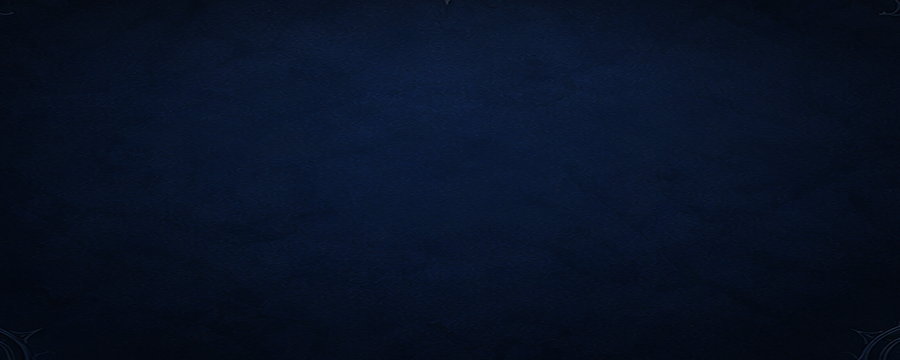
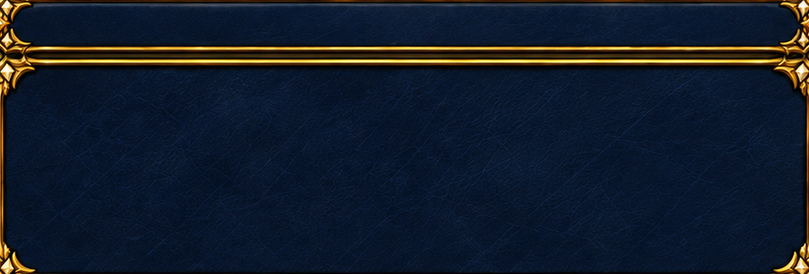
Skill book and inventory on their dedicated GPT windows; UI kit pieces for HUD, main screen, settings, NPC dialogue, combat, cursors and map
Claude-Session: https://claude.ai/code/session_019q8CMrxghbNzj8w42KsHoP

diff --git a/src/ui/SkillBook.ts b/src/ui/SkillBook.ts
@@ -19,13 +19,16 @@ import { ADV_LABEL, Job, jobsFor } from '../skills/Jobs';
 const A = (f: string) => `assets/final/ui/skill_book/${f}.png`;
 const K = (f: string) => `assets/final/ui/kit/${f}.png`;
 const BG = { x: 160, y: 140, w: 1600, h: 800 };
-const PREVIEW: Rect = { x: 56, y: 372, w: 900, h: 360 };
-const DETAIL: Rect = { x: 990, y: 352, w: 552, h: 392 };
+// zones measured on kit/skillbook_window.png (the window art paints banner, tab strip, 4 card frames, two book pages)
+const PREVIEW: Rect = { x: 80, y: 446, w: 809, h: 274 };
+const DETAIL: Rect = { x: 995, y: 446, w: 530, h: 274 };
+const TAB_X = [50, 355, 659, 962, 1263], TAB_W = 287, TAB_Y = 149, TAB_H = 52;
+const FRAME_CX = [363, 662, 941, 1233], FRAME_Y = 236;
 /** Pre-recorded in-game clips of each skill (exact final visuals); falls back to the live preview when missing. */
 const CLIPS = new Set(['warrior_basic', 'dash_slash', 'rising_slash', 'ground_breaker', 'whirlwind', 'sanctuary', 'blade_storm', 'titans_verdict', 'leap_crash', 'wave_slash', 'radiant_blade', 'lance_thrust', 'war_cry', 'judgment_blade']);
 const clipUrl = (id: string) => `assets/final/skills/clips/${id}.mp4?v=${__BUILD_COMMIT__}`;
 const HOTKEY = ['SPACE', '1', '2', '3', '4', '5', '6', '7', 'Q', 'R', 'F', 'G', 'C', 'V'];
-const CARD = 118;
+const CARD = 112;
 
 const ROLE_LABEL: Partial<Record<Role, string>> = {
   basic: 'Basic', opener: 'Opener', gapClose: 'Gap Close', launcher: 'Launcher', extender: 'Extender', airExtender: 'Air Extender',
@@ -43,54 +46,51 @@ const STYLE_ID = 'gol-skillbook-style';
 const CSS = `
 .gol-sb{z-index:40;display:none}
 .gol-sb.open{display:block}
-.gol-sb .bg{position:absolute;left:${BG.x}px;top:${BG.y}px;width:${BG.w}px;height:${BG.h}px;background:url("${K('window')}") 0 0/100% 100%;
+.gol-sb .bg{position:absolute;left:${BG.x}px;top:${BG.y}px;width:${BG.w}px;height:${BG.h}px;background:url("${K('skillbook_window')}") 0 0/100% 100%;
   pointer-events:auto;animation:golSbIn 220ms ease-out}
 @keyframes golSbIn{from{opacity:0;transform:translateY(10px) scale(.985)}to{opacity:1;transform:none}}
-.gol-sb .hdr{position:absolute;left:450px;top:18px;width:700px;height:82px;background:url("${K('header')}") 0 0/100% 100% no-repeat;text-align:center;pointer-events:none}
-.gol-sb .ttl{display:block;margin-top:27px;font:700 21px/24px ${FONT_FAMILY};letter-spacing:4px;color:#f0d9a6;text-shadow:0 2px 6px #000}
+.gol-sb .hdr{position:absolute;left:482px;top:44px;width:632px;height:62px;text-align:center;pointer-events:none}
+.gol-sb .ttl{display:block;margin-top:6px;font:700 22px/26px ${FONT_FAMILY};letter-spacing:4px;color:#f0d9a6;text-shadow:0 2px 6px #000}
 .gol-sb .sub{display:block;font-size:11px;line-height:14px;letter-spacing:2px;color:#9fb0c0;text-transform:uppercase;white-space:nowrap}
-.gol-sb .x{position:absolute;right:34px;top:26px;width:52px;height:52px;border:0;background:url("${K('close')}") 0 0/100% 100%;cursor:pointer;pointer-events:auto;transition:transform 120ms,filter 120ms}
-.gol-sb .x:hover{filter:brightness(1.3);transform:scale(1.06)}
-.gol-sb .tabs{position:absolute;left:52px;top:104px;right:52px;display:flex;gap:10px}
-.gol-sb .tab{flex:1;height:62px;position:relative;background:url("${K('tab_normal')}") 0 0/100% 100%;cursor:pointer;text-align:left;padding:9px 0 0 76px;transition:filter 120ms}
-.gol-sb .tab:hover{background-image:url("${K('tab_hover')}")}
-.gol-sb .tab.on{background-image:url("${K('tab_selected')}");filter:drop-shadow(0 0 10px rgba(110,170,255,.45))}
-.gol-sb .tab .em{position:absolute;left:12px;top:3px;width:56px;height:56px;background:0 0/100% 100% no-repeat;filter:drop-shadow(0 2px 3px #000)}
-.gol-sb .tab .lv{position:absolute;right:10px;top:9px;width:40px;height:46px;background:url("${K('hex_badge')}") center/100% 100% no-repeat;font:700 13px/46px ${FONT_FAMILY};color:#ffe2a0;text-align:center;text-shadow:0 1px 2px #000}
-.gol-sb .tab b{display:block;font:700 14px ${FONT_FAMILY};letter-spacing:1px;color:#f3e2bf;white-space:nowrap}
-.gol-sb .tab span{display:block;font-size:12px;letter-spacing:1px;color:#9fb0c0;margin-top:2px;white-space:nowrap}
+.gol-sb .x{position:absolute;left:1522px;top:90px;width:56px;height:56px;border:0;border-radius:50%;background:transparent;cursor:pointer;pointer-events:auto;transition:box-shadow 120ms}
+.gol-sb .x:hover{box-shadow:0 0 16px 6px rgba(255,214,130,.45)}
+.gol-sb .tab{position:absolute;top:${TAB_Y}px;width:${TAB_W}px;height:${TAB_H}px;cursor:pointer;text-align:left;padding:7px 0 0 60px;border-radius:6px;transition:background 120ms,box-shadow 120ms}
+.gol-sb .tab:hover{background:rgba(255,214,130,.08)}
+.gol-sb .tab.on{background:linear-gradient(90deg,rgba(255,200,90,.22),rgba(255,200,90,.06));box-shadow:inset 0 -3px 0 #e8b25a}
+.gol-sb .tab .em{position:absolute;left:6px;top:1px;width:50px;height:50px;background:0 0/100% 100% no-repeat;filter:drop-shadow(0 2px 3px #000)}
+.gol-sb .tab .lv{position:absolute;right:8px;top:6px;width:34px;height:40px;background:url("${K('hex_badge')}") center/100% 100% no-repeat;font:700 12px/40px ${FONT_FAMILY};color:#ffe2a0;text-align:center;text-shadow:0 1px 2px #000}
+.gol-sb .tab b{display:block;font:700 13px ${FONT_FAMILY};letter-spacing:1px;color:#f3e2bf;white-space:nowrap}
+.gol-sb .tab span{display:block;font-size:11px;letter-spacing:1px;color:#9fb0c0;margin-top:2px;white-space:nowrap}
 .gol-sb .tab.lk b{color:#8c939b}
 .gol-sb .tab.lk .em{filter:grayscale(.7) brightness(.6)}
 .gol-sb .tab.lk .lv{color:#9aa3ab}
-.gol-sb .tab.lk:after{content:'';position:absolute;right:54px;top:14px;width:24px;height:34px;background:url("${K('lock')}") center/contain no-repeat;filter:drop-shadow(0 1px 2px #000)}
-.gol-sb .row{position:absolute;left:52px;right:52px;top:186px;height:170px;display:flex;justify-content:center;gap:56px}
-.gol-sb .card{position:relative;width:${CARD}px;height:${CARD}px;background:url("${K('card_normal')}") center/100% 100% no-repeat;cursor:pointer;transition:transform 120ms,filter 120ms}
+.gol-sb .tab.lk:after{content:'';position:absolute;right:48px;top:10px;width:22px;height:30px;background:url("${K('lock')}") center/contain no-repeat;filter:drop-shadow(0 1px 2px #000)}
+.gol-sb .row{position:absolute;left:0;top:0;width:${BG.w}px;height:0}
+.gol-sb .card{position:absolute;top:${FRAME_Y + 10}px;width:${CARD}px;height:${CARD}px;margin-left:${-CARD / 2}px;background:url("${K('card_normal')}") center/100% 100% no-repeat;cursor:pointer;transition:transform 120ms,filter 120ms}
 .gol-sb .card:hover{transform:scale(1.05);filter:brightness(1.15)}
 .gol-sb .card.sel{background-image:url("${K('card_selected')}");transform:scale(1.07)}
-.gol-sb .card img{position:absolute;left:19px;top:19px;width:80px;height:80px;border-radius:6px;pointer-events:none}
+.gol-sb .card img{position:absolute;left:18px;top:18px;width:76px;height:76px;border-radius:6px;pointer-events:none}
 .gol-sb .card.lk{background-image:url("${K('card_locked')}")}
 .gol-sb .card.lk img{filter:grayscale(1) brightness(.4)}
-.gol-sb .card .hk{position:absolute;right:-8px;top:-8px;min-width:28px;height:24px;padding:0 6px;border-radius:5px;background:#0b121b;border:1px solid #c99a45;
-  font:700 13px/22px ${FONT_FAMILY};color:#f0d9a6;text-align:center}
-.gol-sb .card .nm{position:absolute;left:-40px;right:-40px;top:${CARD + 6}px;text-align:center;font:700 15px ${FONT_FAMILY};color:#f3e2bf;white-space:nowrap;text-shadow:0 1px 3px #000}
+.gol-sb .card .hk{position:absolute;right:-10px;top:-10px;min-width:26px;height:22px;padding:0 6px;border-radius:5px;background:#0b121b;border:1px solid #c99a45;
+  font:700 12px/20px ${FONT_FAMILY};color:#f0d9a6;text-align:center}
+.gol-sb .card .nm{position:absolute;left:-40px;right:-40px;top:${CARD + 5}px;text-align:center;font:700 13px ${FONT_FAMILY};color:#f3e2bf;white-space:nowrap;text-shadow:0 1px 3px #000}
 .gol-sb .card.lk .nm{color:#8c939b}
-.gol-sb .pvf{position:absolute;left:${PREVIEW.x - 32}px;top:${PREVIEW.y - 48}px;width:964px;height:452px;background:url("${K('frame_preview')}") 0 0/100% 100% no-repeat;pointer-events:none;filter:drop-shadow(0 8px 18px rgba(0,0,0,.55))}
-.gol-sb .pv{position:absolute;left:${PREVIEW.x}px;top:${PREVIEW.y}px;width:${PREVIEW.w}px;height:${PREVIEW.h}px;overflow:hidden;background:#0a1018}
+.gol-sb .pv{position:absolute;left:${PREVIEW.x}px;top:${PREVIEW.y}px;width:${PREVIEW.w}px;height:${PREVIEW.h}px;overflow:hidden;background:#0a1018;border-radius:4px}
 .gol-sb .pv video{width:100%;height:100%;object-fit:cover;display:block}
-.gol-sb .pcap{position:absolute;left:${PREVIEW.x}px;top:${PREVIEW.y - 70}px;width:${PREVIEW.w}px;font-size:13px;letter-spacing:2px;color:#9fc6e8}
-.gol-sb .det{position:absolute;left:${DETAIL.x}px;top:${DETAIL.y}px;width:${DETAIL.w}px;height:${DETAIL.h}px;background:url("${K('tooltip_panel')}") 0 0/100% 100%;
-  padding:34px 40px 30px;color:#dfe6ee;font-family:Georgia,serif}
-.gol-sb .det .hd{display:flex;gap:14px;align-items:center}
-.gol-sb .det .hd img{width:64px;height:64px;border-radius:8px;border:1px solid #6a5630}
-.gol-sb .det .nm{font:700 22px ${FONT_FAMILY};color:#f3e2bf}
-.gol-sb .det .tier{font:700 12px ${FONT_FAMILY};letter-spacing:2px;color:#e8b25a}
-.gol-sb .det .roles{margin-top:10px;display:flex;gap:6px;flex-wrap:wrap}
-.gol-sb .det .roles i{font-style:normal;font-size:12px;padding:2px 8px;border-radius:10px;background:#1b2a3a;border:1px solid #3d5a78;color:#bcd6ef}
-.gol-sb .det .ds{margin-top:10px;font-size:15px;line-height:1.35;color:#e4e9ef;min-height:40px}
-.gol-sb .det table{margin-top:8px;border-collapse:collapse;width:100%;font-size:14px}
-.gol-sb .det td{padding:3px 0;vertical-align:top}
-.gol-sb .det td:first-child{width:118px;color:#9fb0c0}
-.gol-sb .det .rel{margin-top:6px;font-size:14px;color:#f0d9a6}
+.gol-sb .pcap{display:none}
+.gol-sb .det{position:absolute;left:${DETAIL.x}px;top:${DETAIL.y}px;width:${DETAIL.w}px;height:${DETAIL.h}px;padding:0 6px;color:#dfe6ee;font-family:Georgia,serif;overflow:hidden}
+.gol-sb .det .hd{display:flex;gap:10px;align-items:center;height:42px}
+.gol-sb .det .hd img{width:38px;height:38px;border-radius:6px;border:1px solid #6a5630}
+.gol-sb .det .nm{font:700 18px/20px ${FONT_FAMILY};color:#f3e2bf;white-space:nowrap}
+.gol-sb .det .tier{font:700 10px ${FONT_FAMILY};letter-spacing:2px;color:#e8b25a;white-space:nowrap}
+.gol-sb .det .roles{margin-top:10px;display:flex;gap:5px;flex-wrap:wrap}
+.gol-sb .det .roles i{font-style:normal;font-size:11px;padding:1px 7px;border-radius:10px;background:#1b2a3a;border:1px solid #3d5a78;color:#bcd6ef}
+.gol-sb .det .ds{margin-top:6px;font-size:12.5px;line-height:1.3;color:#e4e9ef;max-height:66px;overflow:hidden}
+.gol-sb .det table{margin-top:5px;border-collapse:collapse;width:100%;font-size:12px}
+.gol-sb .det td{padding:1px 0;vertical-align:top}
+.gol-sb .det td:first-child{width:92px;color:#9fb0c0}
+.gol-sb .det .rel{margin-top:4px;font-size:12px;color:#f0d9a6;display:flex;gap:14px;flex-wrap:wrap}
 .gol-sb .det .rel div:before{content:'\\2192  ';color:#c99a45}
 .gol-sb .det .lock{color:#ff9a7a}
 `;
@@ -277,9 +277,8 @@ export class SkillBook {
     this.div('sub', hdr).textContent = qaUnlockAll ? `QA build · all job advancements unlocked · level ${level}` : `Level ${level} · ${cur.name} — skills unlock with each job advancement`;
     const x = document.createElement('button'); x.className = 'x'; x.title = 'Close (K / Esc)';
     x.addEventListener('click', () => this.close()); this.bg.appendChild(x);
-    const tabs = this.div('tabs', this.bg);
     this.jobs.forEach((j, k) => {
-      const t = this.div('tab', tabs);
+      const t = this.div('tab', this.bg); t.style.left = `${TAB_X[k]}px`;
       t.innerHTML = '<div class="em"></div><b></b><span></span><div class="lv"></div>';
       (t.children[1] as HTMLElement).textContent = j.name.toUpperCase();
       (t.children[2] as HTMLElement).textContent = `${ADV_LABEL[k]} · Lv ${j.level}–${j.to}`;
@@ -291,12 +290,11 @@ export class SkillBook {
     this.row = this.div('row', this.bg);
     this.cap = this.div('pcap', this.bg);
     this.pv = this.div('pv', this.bg);
-    this.div('pvf', this.bg);
     this.video = document.createElement('video');
     this.video.muted = true; this.video.loop = true; this.video.playsInline = true; this.video.autoplay = true;
     this.pv.appendChild(this.video);
     this.det = this.div('det', this.bg);
-    this.stage = new PreviewStage(scene, { x: BG.x + PREVIEW.x, y: BG.y + PREVIEW.y, w: PREVIEW.w, h: PREVIEW.h }, -30000, 30000, 1.0, 'ui-sb-preview');
+    this.stage = new PreviewStage(scene, { x: BG.x + PREVIEW.x, y: BG.y + PREVIEW.y, w: PREVIEW.w, h: PREVIEW.h }, -30000, 30000, 0.88, 'ui-sb-preview');
     this.preview = new SkillPreview(scene, this.stage, cls);
     this.preview.setVisible(false);
     this.job = Math.max(0, this.jobs.indexOf(cur));
@@ -313,9 +311,9 @@ export class SkillBook {
 
   private buildRow(): void {
     this.row.innerHTML = ''; this.cards = [];
-    for (const slot of this.jobs[this.job].slots) {
-      const i = this.kit.findIndex((s) => s.slot === slot); if (i < 0) continue;
-      const s = this.kit[i], c = this.div('card', this.row);
+    this.jobs[this.job].slots.forEach((slot, n) => {
+      const i = this.kit.findIndex((s) => s.slot === slot); if (i < 0 || n >= FRAME_CX.length) return;
+      const s = this.kit[i], c = this.div('card', this.row); c.style.left = `${FRAME_CX[n]}px`;
       const img = document.createElement('img'); img.src = iconUrl(s); img.alt = ''; img.draggable = false; c.appendChild(img);
       this.div('hk', c).textContent = HOTKEY[s.slot];
       this.div('nm', c).textContent = s.name;
@@ -323,7 +321,7 @@ export class SkillBook {
       c.addEventListener('mouseleave', () => { if (this.hover === i) { this.hover = -1; this.refresh(); } });
       c.addEventListener('click', () => { this.selected = i; this.refresh(); });
       this.cards.push({ el: c, i });
-    }
+    });
   }
 
   /** Equip the preview body with the character's cosmetics (book preview = this character). */

diff --git a/src/ui/CosmeticPanel.ts b/src/ui/CosmeticPanel.ts
@@ -24,12 +24,17 @@ const INV = 'assets/final/ui/inventory', SHOP = 'assets/final/ui/cash_shop';
 const KIT = 'assets/final/ui/kit';
 const INV_BG = { x: 160, y: 140, w: 1600, h: 800 };
 const SHOP_BG = { x: 160, y: 140, w: 1600, h: 800 };
-const INV_PREVIEW: Rect = { x: 48, y: 104, w: 430, h: 556 };
+// zones measured on kit/inventory_window.png (1600x800): alcove, 5 tab frames, grid panel, currency bar
+const INV_PREVIEW: Rect = { x: 61, y: 119, w: 351, h: 527 };
+const INV_TAB_X = [467, 678, 892, 1107, 1322], INV_TAB_W = 205, INV_TAB_Y = 136, INV_TAB_H = 61;
+const INV_PANEL: Rect = { x: 476, y: 232, w: 1062, h: 414 };
 type InvTab = 'gear' | 'items' | 'materials' | 'key' | 'cosmetics';
 const MAIN_TABS: [InvTab, string, string][] = [['gear', 'GEAR', 'icon_gear'], ['items', 'ITEMS', 'icon_items'], ['materials', 'MATERIALS', 'icon_materials'], ['key', 'KEY ITEMS', 'icon_key'], ['cosmetics', 'COSMETICS', 'icon_cosmetics']];
 // sockets painted into kit/doll_panel.png (374x578): [label, centre x, centre y]
 const DOLL: [string, number, number][] = [['Head', 187, 114], ['Weapon', 81, 168], ['Necklace', 293, 168], ['Armor', 73, 272], ['Earring', 299, 272], ['Gloves', 79, 372], ['Shield', 296, 372], ['Ring', 85, 464], ['Belt', 190, 462], ['Ring', 282, 464]];
+const DOLL_SCALE = 400 / 578;
 const SHOP_PREVIEW: Rect = { x: 48, y: 104, w: 430, h: 556 };
+const SHOP_TABS_Y = 112;
 const SLOT_LABEL: Record<CosSlot, string> = { head: 'Head', face: 'Face', back: 'Cape / Back', weapon: 'Weapon', aura: 'Aura', damage: 'Damage Skin', pet: 'Companion', hair: 'Hair Colour', armor: 'Armor Finish', hairstyle: 'Hairstyle', top: 'Chest Plate', gloves: 'Gauntlets', shoes: 'Boots', pants: 'Trousers', hat: 'Hat', faceacc: 'Face', earring: 'Earring', nametag: 'Name Tag', trail: 'Footstep Trail' };
 const TYPE_LABEL: Record<string, string> = {
   head: 'Head', mask: 'Face', cape: 'Cape', back: 'Back', weapon: 'Weapon skin', weapon_animated: 'Animated weapon skin', bow: 'Bow skin',
@@ -171,6 +176,19 @@ const CSS = `
 .gol-cp .plate{width:160px;height:62px;padding:0 14px;border:0;background:url("${KIT}/plate_normal.png") center/100% 100% no-repeat;font-size:13px;font-weight:700;letter-spacing:1px;color:#ffe2a0;text-shadow:0 1px 2px #000;flex:none}
 .gol-cp .plate:hover:not(:disabled){background-image:url("${KIT}/plate_hover.png");filter:none;transform:scale(1.02)}
 .gol-cp .plate:disabled{background-image:url("${KIT}/plate_disabled.png");color:#9aa3ab;opacity:1}
+.gol-cp .wtab{position:absolute;top:${INV_TAB_Y}px;width:${INV_TAB_W}px;height:${INV_TAB_H}px;border:0;background:transparent;border-radius:6px;display:flex;align-items:center;justify-content:center;gap:7px;
+  color:#c9d3dc;font-size:14px;font-weight:700;letter-spacing:1.2px;transition:background 120ms,box-shadow 120ms}
+.gol-cp .wtab:hover{background:rgba(255,214,130,.08);filter:none;transform:none}
+.gol-cp .wtab.on{background:linear-gradient(90deg,rgba(255,200,90,.06),rgba(255,200,90,.22),rgba(255,200,90,.06));box-shadow:inset 0 -3px 0 #e8b25a;color:#ffe2a0}
+.gol-cp .wtab img{width:30px;height:30px;object-fit:contain}
+.gol-cp .st.sm button{height:26px;padding:0 7px;font-size:10.5px}
+.gol-cp .st.sm button.arw{width:30px;height:28px}
+.gol-cp .cico{position:absolute;background:center/contain no-repeat;pointer-events:none;filter:drop-shadow(0 2px 3px #000)}
+.gol-cp .cval{position:absolute;font:700 17px ${FONT_FAMILY};color:#ffe2a0;text-shadow:0 1px 2px #000;letter-spacing:1px}
+.gol-cp .x.win{position:absolute;left:1515px;top:87px;width:56px;height:56px;border:0;border-radius:50%;background:transparent;color:transparent;transition:box-shadow 120ms}
+.gol-cp .x.win:hover{box-shadow:0 0 16px 6px rgba(255,214,130,.45);filter:none;transform:none}
+.gol-cp .hdr.win{left:503px;top:36px;width:597px;height:60px;background:none}
+.gol-cp .hdr.win .ttl{margin-top:8px}
 .gol-cp .x.kit{border:0;background:url("${KIT}/close.png") 0 0/100% 100%;color:transparent;width:52px;height:52px}
 `;
 
@@ -259,6 +277,7 @@ export class CosmeticPanel {
   private mainTabs = new Map<InvTab, HTMLButtonElement>();
   private content!: HTMLDivElement;
   private tip!: HTMLDivElement;
+  private invHint!: HTMLDivElement;
   private shopCat: ShopCat = 'all';
   private selected: string | null = null;
   private tryOn: Equipped = {};
@@ -282,8 +301,8 @@ export class CosmeticPanel {
     this.inv = this.buildInventory();
     this.shop = this.buildShop();
     this.invStage = new PreviewStage(scene, { x: INV_BG.x + INV_PREVIEW.x, y: INV_BG.y + INV_PREVIEW.y, w: INV_PREVIEW.w, h: INV_PREVIEW.h }, -26000, 30000, 2.0, 'ui-inv-preview');
-    this.shopStage = new PreviewStage(scene, { x: SHOP_BG.x + SHOP_PREVIEW.x, y: SHOP_BG.y + SHOP_PREVIEW.y, w: SHOP_PREVIEW.w, h: SHOP_PREVIEW.h }, -22000, 30000, 2.0, 'ui-inv-preview');
-    this.invPrev = new CosPreview(scene, this.invStage, this.cls, 104);
+    this.shopStage = new PreviewStage(scene, { x: SHOP_BG.x + SHOP_PREVIEW.x, y: SHOP_BG.y + SHOP_PREVIEW.y, w: SHOP_PREVIEW.w, h: SHOP_PREVIEW.h }, -22000, 30000, 2.0, 'ui-shop-preview');
+    this.invPrev = new CosPreview(scene, this.invStage, this.cls, 109);
     this.shopPrev = new CosPreview(scene, this.shopStage, this.cls, 104);
     this.invPrev.setVisible(false); this.shopPrev.setVisible(false);
   }
@@ -330,14 +349,14 @@ export class CosmeticPanel {
     const b = this.el('button', 'sw', bg, swLabel); b.addEventListener('click', () => this.show(sw));
   }
 
-  private stateBar(bg: HTMLDivElement, x: number, y: number, w: number, prev: () => CosPreview): void {
-    const bar = this.el('div', 'st', bg); this.place(bar, x, y, w);
+  private stateBar(bg: HTMLDivElement, x: number, y: number, w: number, prev: () => CosPreview, small = false): void {
+    const bar = this.el('div', small ? 'st sm' : 'st', bg); this.place(bar, x, y, w);
     for (const [s, label] of STATES) {
       const b = this.el('button', '', bar, label);
       b.addEventListener('click', () => { prev().setState(s); this.syncStates(); });
       this.stateBtns.push({ el: b, s });
     }
-    const bar2 = this.el('div', 'st', bg); this.place(bar2, x, y + 38, w);
+    const bar2 = this.el('div', small ? 'st sm' : 'st', bg); this.place(bar2, x, y + (small ? 30 : 38), w);
     const l = this.el('button', 'arw', bar2, 'Turn left'); l.title = 'Turn left'; l.addEventListener('click', () => { prev().turn(-1); this.syncStates(); });
     const r = this.el('button', 'arw r', bar2, 'Turn right'); r.title = 'Turn right'; r.addEventListener('click', () => { prev().turn(1); this.syncStates(); });
     const a = this.el('button', 'auto', bar2, 'Auto-rotate'); a.addEventListener('click', () => { const p = prev(); p.autoTurn = !p.autoTurn; this.syncStates(); });
@@ -351,20 +370,25 @@ export class CosmeticPanel {
 
   private buildInventory(): HTMLDivElement {
     const bg = this.el('div', 'bg', this.root); this.place(bg, INV_BG.x, INV_BG.y, INV_BG.w, INV_BG.h);
-    bg.style.backgroundImage = `url("${KIT}/window.png")`;
+    bg.style.backgroundImage = `url("${KIT}/inventory_window.png")`;
     holeMask(bg, INV_PREVIEW);
     this.header(bg, 'INVENTORY', `${this.character.name} · ${CLASS_NAMES[this.cls] ?? this.cls}`, 'COSMETIC SHOP  (O)', 'shop');
-    const x = bg.querySelector('.x') as HTMLElement; x.classList.add('kit'); x.style.right = '34px'; x.style.top = '26px';
-    const sw = bg.querySelector('.sw') as HTMLElement; sw.classList.add('kit'); sw.style.right = '92px'; sw.style.top = '22px';
-    const hdr = this.el('div', 'hdr', bg); hdr.appendChild(bg.querySelector('.ttl')!); hdr.appendChild(bg.querySelector('.sub')!);
-    this.stateBar(bg, INV_PREVIEW.x, INV_PREVIEW.y + INV_PREVIEW.h + 12, INV_PREVIEW.w, () => this.invPrev);
-    const mt = this.el('div', 'mt', bg); this.place(mt, 508, 104);
-    for (const [t, label, ic] of MAIN_TABS) {
-      const b = this.el('button', '', mt); const im = this.el('img', '', b); im.src = `${KIT}/${ic}.png`; im.alt = ''; this.el('span', '', b, label);
+    (bg.querySelector('.x') as HTMLElement).classList.add('win');
+    const sw = bg.querySelector('.sw') as HTMLElement; sw.classList.add('kit'); sw.style.right = 'auto'; sw.style.left = '1270px'; sw.style.top = '40px';
+    const hdr = this.el('div', 'hdr win', bg); hdr.appendChild(bg.querySelector('.ttl')!); hdr.appendChild(bg.querySelector('.sub')!);
+    this.stateBar(bg, 46, 686, 380, () => this.invPrev, true);
+    for (const [i, [t, label, ic]] of MAIN_TABS.entries()) {
+      const b = this.el('button', 'wtab', bg); b.style.left = `${INV_TAB_X[i]}px`;
+      const im = this.el('img', '', b); im.src = `${KIT}/${ic}.png`; im.alt = ''; this.el('span', '', b, label);
       b.addEventListener('click', () => { this.mainTab = t; this.refresh(); });
       this.mainTabs.set(t, b);
     }
-    this.content = this.el('div', 'ct', bg); this.place(this.content, 508, 182, 1050, 578);
+    this.content = this.el('div', 'ct', bg); this.place(this.content, INV_PANEL.x, INV_PANEL.y, INV_PANEL.w, INV_PANEL.h);
+    // currency bar painted at the bottom of the window: coin + gem in its two ring sockets, amounts beside them
+    const coin = this.el('div', 'cico', bg); this.place(coin, 522 - 34, 715 - 34, 68, 68); coin.style.backgroundImage = `url("${KIT}/coin_gold.png")`;
+    const gem = this.el('div', 'cico', bg); this.place(gem, 618 - 38, 715 - 38, 76, 76); gem.style.backgroundImage = `url("${KIT}/gem_premium.png")`;
+    this.place(this.el('div', 'cval', bg, '0'), 700, 704); this.place(this.el('div', 'cval', bg, '0'), 820, 704);
+    this.invHint = this.el('div', 'hint', bg); this.place(this.invHint, 960, 707);
     this.tip = this.el('div', 'tip', bg);
     return bg;
   }
@@ -376,31 +400,30 @@ export class CosmeticPanel {
   private renderMain(): void {
     const c = this.content; c.innerHTML = '';
     for (const [t, b] of this.mainTabs) b.classList.toggle('on', t === this.mainTab);
+    const W = INV_PANEL.w;
     if (this.mainTab === 'cosmetics') {
-      const ct = this.el('div', 'ctabs', c); this.place(ct, 0, 2, 1050);
+      this.invHint.textContent = '';
+      const ct = this.el('div', 'ctabs', c); this.place(ct, 10, 4, W);
       INV_TABS.forEach(([cat, label]) => { const b = this.el('button', '', ct, label); b.classList.toggle('on', cat === this.invCat); b.addEventListener('click', () => { this.invCat = cat; this.refresh(); }); });
-      const pnl = this.el('div', 'pnl', c); this.place(pnl, 0, 56, 1050, 500); pnl.style.backgroundImage = `url("${KIT}/grid_panel_wide.png")`;
-      this.invGrid = this.el('div', 'grid kitbar', pnl); this.place(this.invGrid, 44, 44, 980, 420);
+      this.invGrid = this.el('div', 'grid kitbar', c); this.place(this.invGrid, 14, 58, W - 28, INV_PANEL.h - 64);
       this.renderInventory();
       return;
     }
     if (this.mainTab === 'gear') {
-      const doll = this.el('div', 'pnl', c); this.place(doll, 0, 0, 374, 578); doll.style.backgroundImage = `url("${KIT}/doll_panel.png")`;
-      for (const [label, x, y] of DOLL) { const s = this.el('div', 'sock', doll); this.place(s, x, y); this.el('span', '', s, label.toUpperCase()); }
-      const bag = this.el('div', 'pnl', c); this.place(bag, 400, 0, 650, 500); bag.style.backgroundImage = `url("${KIT}/grid_panel_bag.png")`;
-      this.toolbar(bag, 650); this.slotGrid(bag, 61, 80, 6, 4);
-      this.footer(c, 400, 'Gear drops and upgrades arrive with the adventure update.');
+      const dw = Math.round(374 * DOLL_SCALE), dh = 400;
+      const doll = this.el('div', 'pnl', c); this.place(doll, 8, 7, dw, dh); doll.style.backgroundImage = `url("${KIT}/doll_panel.png")`;
+      for (const [label, x, y] of DOLL) { const s = this.el('div', 'sock', doll); this.place(s, Math.round(x * DOLL_SCALE), Math.round(y * DOLL_SCALE)); s.style.width = s.style.height = '56px'; s.style.margin = '-28px 0 0 -28px'; this.el('span', '', s, label.toUpperCase()); }
+      this.toolbar(c, W); this.slotGrid(c, dw + 40, 56, 8, 4);
+      this.invHint.textContent = 'Gear drops and upgrades arrive with the adventure update.';
       return;
     }
-    const pnl = this.el('div', 'pnl', c); this.place(pnl, 0, 0, 1050, 500); pnl.style.backgroundImage = `url("${KIT}/grid_panel_wide.png")`;
-    this.toolbar(pnl, 1050); this.slotGrid(pnl, 85, 80, 10, 4);
-    const label = { items: 'Potions, buffs and consumables will appear here.', materials: 'Upgrade stones, ores and monster drops will appear here.', key: 'Quest items, keys and tokens will appear here.' }[this.mainTab];
-    this.footer(c, 0, label);
+    this.toolbar(c, W); this.slotGrid(c, 47, 56, 11, 4);
+    this.invHint.textContent = { items: 'Potions, buffs and consumables will appear here.', materials: 'Upgrade stones, ores and monster drops will appear here.', key: 'Quest items, keys and tokens will appear here.' }[this.mainTab];
   }
 
   /** Sort / filter / search buttons (kit art) in a panel's top-right corner — visual only until items exist. */
   private toolbar(pnl: HTMLElement, w: number): void {
-    const tb = this.el('div', 'tb', pnl); this.place(tb, w - 3 * 44 - 2 * 8 - 44, 16);
+    const tb = this.el('div', 'tb', pnl); this.place(tb, w - 3 * 44 - 2 * 8 - 16, 6);
     for (const k of ['sort', 'filter', 'search']) { const b = this.el('button', k, tb); b.title = k[0].toUpperCase() + k.slice(1); }
   }
 
@@ -420,12 +443,6 @@ export class CosmeticPanel {
       this.place(this.tip, x, y);
     });
     cell.addEventListener('mouseleave', () => this.tip.classList.remove('on'));
-  }
-
-  private footer(c: HTMLElement, x: number, hint: string): void {
-    const cur = this.el('div', 'cur', c); this.place(cur, x, 504);
-    this.el('b', '', cur, '0').style.left = '76px'; this.el('b', '', cur, '0').style.left = '232px';
-    const n = this.el('div', 'hint', c, hint); this.place(n, x + 360, 530);
   }
 
   private buildShop(): HTMLDivElement {

diff --git a/src/ui/PreviewStage.ts b/src/ui/PreviewStage.ts
@@ -8,8 +8,8 @@ export interface Rect { x: number; y: number; w: number; h: number }
 export function preloadPanelArt(scene: Phaser.Scene): void {
   const I = (k: string, p: string) => { if (!scene.textures.exists(k)) scene.load.image(k, p); };
   I('ui-sb-preview', 'assets/final/ui/kit/preview_backdrop.png');
-  I('ui-inv-preview', 'assets/final/ui/kit/preview_frame.png');
-  I('ui-shop-preview', 'assets/final/ui/cash_shop/preview_stage.png');
+  I('ui-inv-preview', 'assets/final/ui/kit/inv_alcove.png');
+  I('ui-shop-preview', 'assets/final/ui/kit/preview_frame.png');
 }
 
 /** CSS that removes `r` (panel-local design px) from an element, letting the canvas camera show through. */
